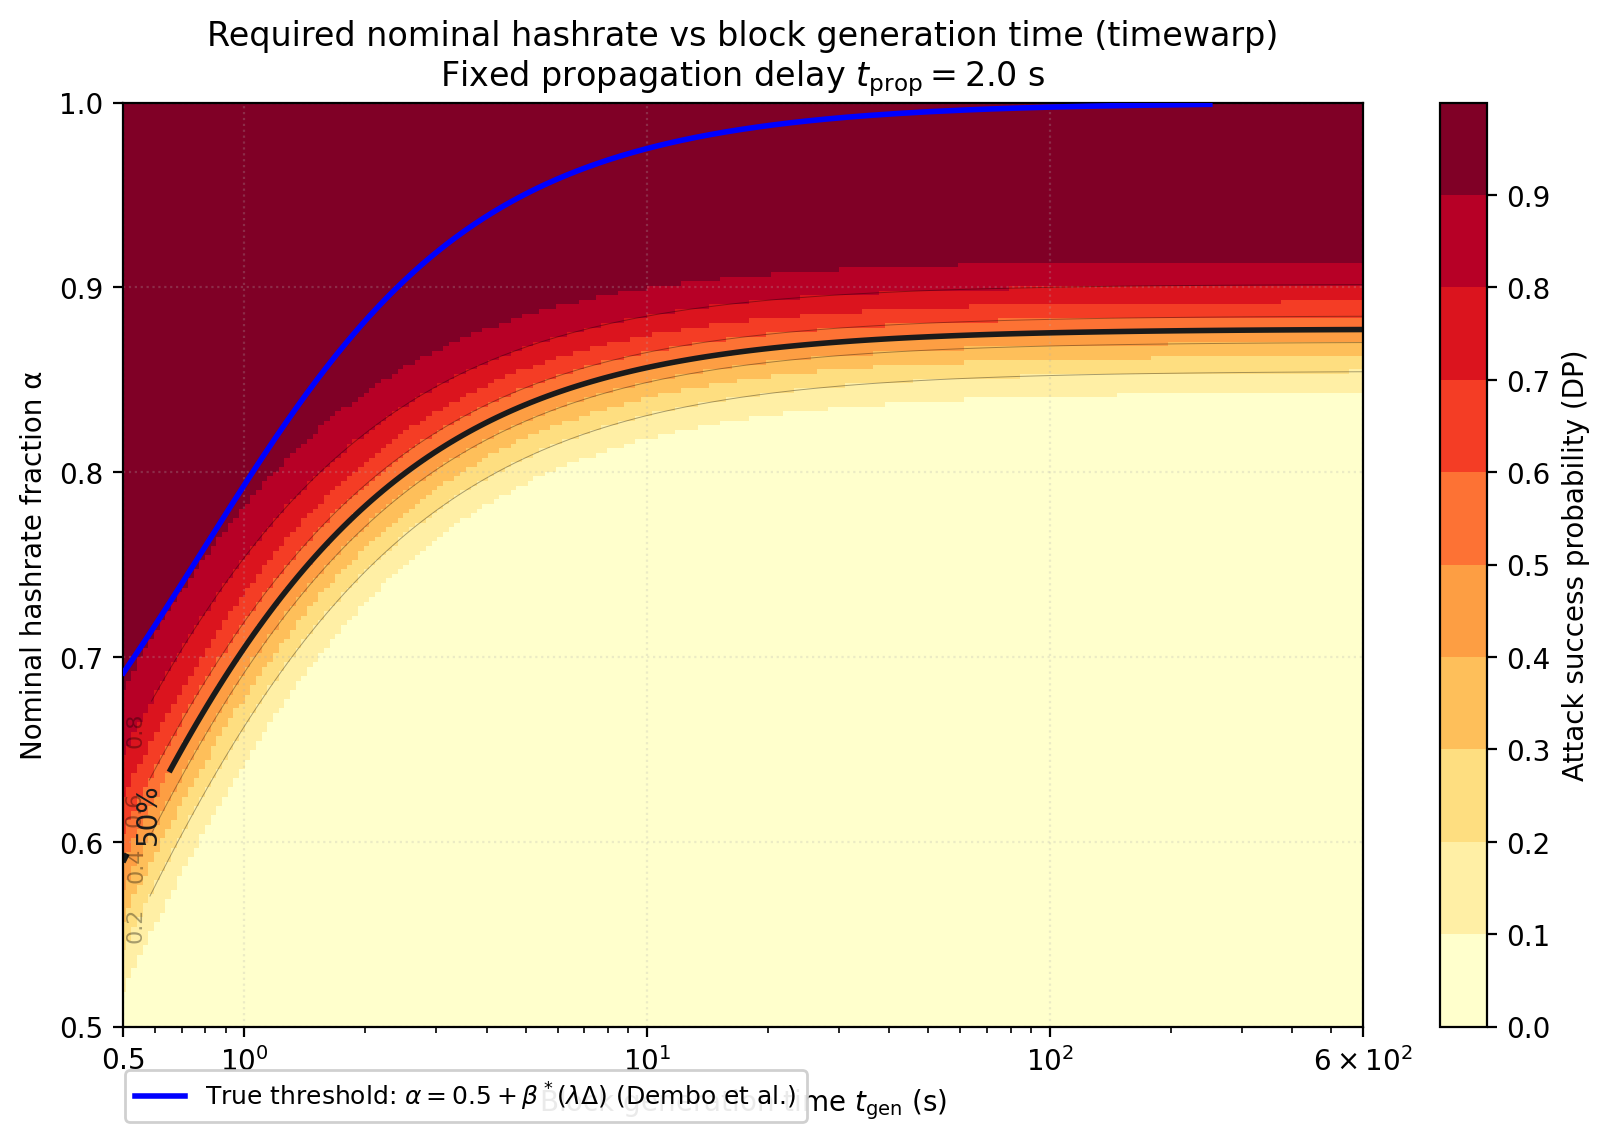
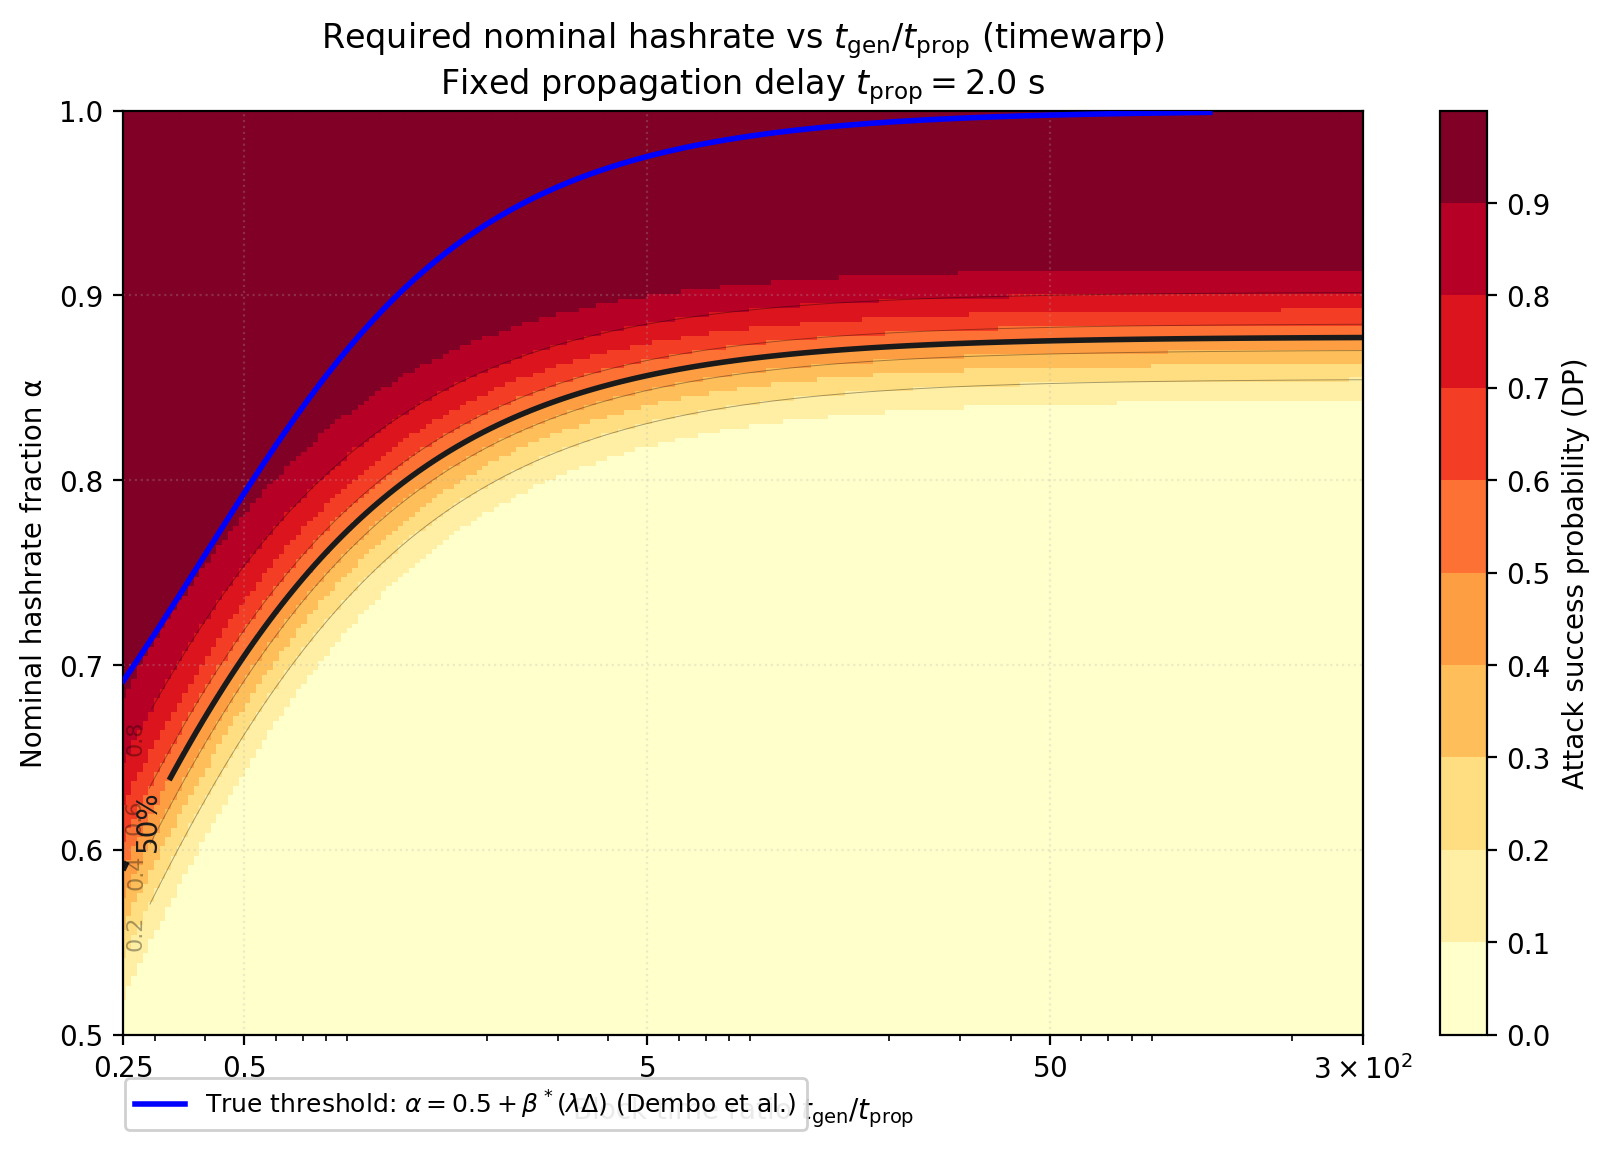
wip

diff --git a/experiments/timewarp_theory_analysis/scripts/plot_required_hashrate_sm.py b/experiments/timewarp_theory_analysis/scripts/plot_required_hashrate_sm.py
@@ -1,7 +1,10 @@
 """
-横軸: ブロック生成時間 t_gen（秒）
+横軸: ブロック生成時間と伝播遅延の比 t_gen / t_prop（無次元）
 縦軸: 変換前の名目ハッシュレート割合 α
-色: DP による攻撃成功率
+
+γ = 0, 0.5, 1 それぞれについて、DP モデルで攻撃成功率が 50% となる名目 α の曲線を描画する。
+ヒートマップ（plot_required_hashrate_heatmap_block_generation_time）と同様、名目 α をそのまま timewarp に入れた 50% 曲線も重ねる。
+理論の true threshold（Dembo et al.）も重ねる。
 
 名目 α から実効ハッシュレート割合へは γ を含む有理式で写像し、
 timewarp 補正ではその実効割合を用いる（縦軸は変換前の名目 α）。
@@ -18,7 +21,6 @@ from pathlib import Path
 
 import numpy as np
 import matplotlib.pyplot as plt
-from matplotlib.colors import BoundaryNorm
 
 # ==========================================
 # 1. 動的計画法 (DP) による攻撃成功率の計算
@@ -89,99 +91,158 @@ def effective_hashrate_fraction(alpha, gamma):
     return np.where(alpha > 0.5, 1.0, result)
 
 
+def attack_success_prob_nominal(alpha_nom, t_gen, gamma, t_prop, alphas_dp, probs_dp):
+    alpha_nom = float(alpha_nom)
+    alpha_eff_sm = float(effective_hashrate_fraction(np.array([alpha_nom]), gamma)[0])
+    ratio = t_prop / t_gen
+    p_orphan = ratio / (1.0 + ratio)
+    denom = alpha_eff_sm + (1.0 - alpha_eff_sm) * (1.0 - p_orphan)
+    if denom <= 0:
+        return 0.0
+    alpha_eff = alpha_eff_sm / denom
+    return float(np.interp(alpha_eff, alphas_dp, probs_dp, left=0.0, right=1.0))
+
+
+def attack_success_prob_heatmap_nominal(alpha_nom, t_gen, t_prop, alphas_dp, probs_dp):
+    """ヒートマップ script と同じ写像（名目 α を SM なしで timewarp に通す）。"""
+    alpha_nom = float(alpha_nom)
+    ratio = t_prop / t_gen
+    p_orphan = ratio / (1.0 + ratio)
+    denom = alpha_nom + (1.0 - alpha_nom) * (1.0 - p_orphan)
+    if denom <= 0:
+        return 0.0
+    alpha_eff = alpha_nom / denom
+    return float(np.interp(alpha_eff, alphas_dp, probs_dp, left=0.0, right=1.0))
+
+
+def nominal_alpha_for_target_prob(target, t_gen, gamma, t_prop, alphas_dp, probs_dp, n_iter=64):
+    lo, hi = 1e-12, 0.5
+
+    def p(a):
+        return attack_success_prob_nominal(a, t_gen, gamma, t_prop, alphas_dp, probs_dp)
+
+    p_lo, p_hi = p(lo), p(hi)
+    if p_hi < target:
+        return np.nan
+    if p_lo >= target:
+        return lo
+    for _ in range(n_iter):
+        mid = 0.5 * (lo + hi)
+        if p(mid) < target:
+            lo = mid
+        else:
+            hi = mid
+    return 0.5 * (lo + hi)
+
+
+def nominal_alpha_for_target_prob_heatmap(target, t_gen, t_prop, alphas_dp, probs_dp, n_iter=64):
+    """ヒートマップと同じモデルで target 成功率となる名目 α（探索域はヒートマップの縦軸に合わせ [0.5, 1]）。"""
+    lo, hi = 0.5, 1.0 - 1e-12
+
+    def p(a):
+        return attack_success_prob_heatmap_nominal(a, t_gen, t_prop, alphas_dp, probs_dp)
+
+    p_lo, p_hi = p(lo), p(hi)
+    if p_hi < target:
+        return np.nan
+    if p_lo >= target:
+        return lo
+    for _ in range(n_iter):
+        mid = 0.5 * (lo + hi)
+        if p(mid) < target:
+            lo = mid
+        else:
+            hi = mid
+    return 0.5 * (lo + hi)
+
+
 # ==========================================
-# 2. ヒートマップ（横軸 = ブロック生成時間）
+# 2. γ = 0, 0.5, 1 の 50% 曲線 + true threshold
 # ==========================================
-def plot_attack_success_heatmap_by_block_generation_time(
-    *, show_pow_threshold: bool = False, gamma: float = 0.5
-):
+def plot_required_nominal_hashrate_curves(*, show_pow_threshold: bool = True):
     T_PROP = 2.0
     t_gen_min = 0.5
     t_gen_max = 600
-    n_t_gen = 220
-    n_alpha = 200
+    n_t_gen = 400
+    gammas = (0.0, 0.5, 1.0)
 
     print("DPモデルの事前計算中（並列）...")
     alphas_dp, probs_dp = precompute_dp_table()
     print("完了。プロットを生成します。")
 
     t_gen_grid = np.geomspace(t_gen_min, t_gen_max, n_t_gen)
-    alpha_nom_grid = np.linspace(0.0, 1.0, n_alpha)
-    alpha_eff_sm = effective_hashrate_fraction(alpha_nom_grid, gamma)
-    Z = np.zeros((len(alpha_nom_grid), len(t_gen_grid)))
-
-    for j, t_gen in enumerate(t_gen_grid):
-        ratio = T_PROP / t_gen
-        P_orphan_n = ratio / (1.0 + ratio)
-        denom = alpha_eff_sm + (1.0 - alpha_eff_sm) * (1.0 - P_orphan_n)
-        alpha_eff = np.divide(
-            alpha_eff_sm,
-            denom,
-            out=np.zeros_like(alpha_eff_sm),
-            where=denom != 0,
-        )
-        Z[:, j] = np.interp(alpha_eff, alphas_dp, probs_dp, left=0.0, right=1.0)
-
-    X, Y = np.meshgrid(t_gen_grid, alpha_nom_grid)
+    x_ratio = t_gen_grid / T_PROP
 
     fig, ax = plt.subplots(figsize=(10, 6))
+    colors = ("#c0392b", "#2980b9", "#27ae60")
+    for gamma, color in zip(gammas, colors):
+        alphas_nom = np.array(
+            [
+                nominal_alpha_for_target_prob(0.5, tg, gamma, T_PROP, alphas_dp, probs_dp)
+                for tg in t_gen_grid
+            ]
+        )
+        mask = np.isfinite(alphas_nom)
+        ax.plot(
+            x_ratio[mask],
+            alphas_nom[mask],
+            color=color,
+            linewidth=2.0,
+            zorder=3,
+            label=rf"50% success timwarp+SM, $\gamma={gamma:g}$",
+        )
 
-    boundaries = [0.0, 0.1, 0.2, 0.3, 0.4, 0.5, 0.6, 0.7, 0.8, 0.9, 1.01]
-    cmap = plt.colormaps["YlOrRd"].copy()
-    cmap.set_bad(color="#cccccc")
-    norm = BoundaryNorm(boundaries, ncolors=cmap.N, clip=True)
-
-    pcm = ax.pcolormesh(X, Y, Z, shading="auto", cmap=cmap, norm=norm, zorder=1)
-    cbar = fig.colorbar(pcm, ax=ax, label="Attack success probability (DP)", ticks=np.arange(0.0, 1.0, 0.1))
-    cbar.ax.minorticks_off()
-
-    cs_fine = ax.contour(X, Y, Z, levels=[0.2, 0.4, 0.6, 0.8], colors="k", linewidths=0.35, alpha=0.35, zorder=2)
-    ax.clabel(cs_fine, inline=True, fontsize=8, fmt="%.1f")
-    cs50 = ax.contour(X, Y, Z, levels=[0.5], colors=["#1a1a1a"], linewidths=2.0, linestyles="-", zorder=2)
-    ax.clabel(cs50, inline=True, fontsize=10, fmt=lambda _lev: "50%")
+    alphas_heatmap = np.array(
+        [
+            nominal_alpha_for_target_prob_heatmap(0.5, tg, T_PROP, alphas_dp, probs_dp)
+            for tg in t_gen_grid
+        ]
+    )
+    mask_hm = np.isfinite(alphas_heatmap)
+    ax.plot(
+        x_ratio[mask_hm],
+        alphas_heatmap[mask_hm],
+        color="#1a1a1a",
+        linewidth=2.0,
+        linestyle="-",
+        zorder=3,
+        label=r"50% success (DP), timewarp without SM",
+    )
 
     if show_pow_threshold:
-        # Dembo et al. true threshold: 1/(λΔ) = β(1−β)/(1−2β); λΔ = t_prop / t_gen ⇒ t_gen = t_prop / (λΔ).
-        # 縦位置は主軸の α と同一スケール: y = 0.5 + β*（旧 twinx の 0–0.5 と幾何的に同じ）。
         betas_thr = np.linspace(0.001, 0.499, 1000)
         lambda_delta = (1.0 - 2.0 * betas_thr) / (betas_thr * (1.0 - betas_thr))
         inv_lambda_delta = 1.0 / lambda_delta
         t_gen_thr = T_PROP * inv_lambda_delta
+        x_thr = t_gen_thr / T_PROP
         thr_mask = np.isfinite(t_gen_thr) & (t_gen_thr >= t_gen_min) & (t_gen_thr <= t_gen_max)
         y_thr = 0.5 + betas_thr
         (line_thr,) = ax.plot(
-            t_gen_thr[thr_mask],
+            x_thr[thr_mask],
             y_thr[thr_mask],
-            color="blue",
-            linewidth=2,
-            zorder=5,
-            clip_on=True,
+            color="#6c3483",
+            linewidth=2.0,
+            linestyle="--",
+            zorder=4,
+            label=r"True threshold: $\alpha = 0.5+\beta^*(\lambda\Delta)$ (Dembo et al.)",
         )
 
     ax.set_title(
-        "Required nominal hashrate vs block generation time (timewarp)\n"
-        f"$\\gamma = {gamma}$, fixed propagation delay $t_{{\\mathrm{{prop}}}} = {T_PROP}$ s"
+        "Required nominal hashrate for 50% attack success vs $t_{\\mathrm{gen}}/t_{\\mathrm{prop}}$ (timewarp)\n"
+        rf"$\gamma \in \{{0,\,0.5,\,1\}}$, fixed propagation delay $t_{{\mathrm{{prop}}}} = {T_PROP}$ s"
     )
-    ax.set_xlabel("Block generation time $t_{\\mathrm{gen}}$ (s)")
+    ax.set_xlabel(r"Block time ratio $t_{\mathrm{gen}}/t_{\mathrm{prop}}$")
     ax.set_ylabel("Nominal hashrate fraction α (pre-mapping)")
-    ax.set_xlim(t_gen_min, t_gen_max)
+    ax.set_xlim(t_gen_min / T_PROP, t_gen_max / T_PROP)
     ax.set_xscale("log")
-    ax.set_xticks([0.5, 1.0, 10.0, 100.0, float(t_gen_max)])
+    _xt = np.array([0.5, 1.0, 10.0, 100.0, float(t_gen_max)]) / T_PROP
+    ax.set_xticks(_xt)
     ax.set_xticklabels(
-        [r"$0.5$", r"$10^{0}$", r"$10^{1}$", r"$10^{2}$", r"$6\times10^{2}$"]
+        [r"$0.25$", r"$0.5$", r"$5$", r"$50$", r"$3\times10^{2}$"]
     )
     ax.set_ylim(0.0, 1.0)
     ax.grid(True, linestyle=":", alpha=0.25, zorder=0)
-    if show_pow_threshold:
-        leg = fig.legend(
-            [line_thr],
-            [r"True threshold: $\alpha = 0.5+\beta^*(\lambda\Delta)$ (Dembo et al.)"],
-            loc="lower left",
-            bbox_to_anchor=(0.12, 0.02),
-            fontsize=9,
-            framealpha=0.92,
-        )
-        leg.set_zorder(10)
+    ax.legend(loc="lower right", fontsize=9, framealpha=0.92)
 
     out_path = (
         Path(__file__).resolve().parents[1]
@@ -196,20 +257,12 @@ def plot_attack_success_heatmap_by_block_generation_time(
 
 if __name__ == "__main__":
     parser = argparse.ArgumentParser(
-        description="DP timewarp attack success heatmap vs block generation time."
+        description="DP timewarp: 50% success nominal α vs t_gen/t_prop for γ=0,0.5,1 and true threshold."
     )
     parser.add_argument(
-        "--show-pow-threshold",
+        "--no-pow-threshold",
         action="store_true",
-        help="Overlay Dembo et al. true threshold as α = 0.5+β* on the same y-axis as the heatmap. Default: off.",
-    )
-    parser.add_argument(
-        "--gamma",
-        type=float,
-        default=0.5,
-        help="Parameter γ in the effective hashrate fraction mapping (default: 0.5).",
+        help="Do not overlay Dembo et al. true threshold.",
     )
     args = parser.parse_args()
-    plot_attack_success_heatmap_by_block_generation_time(
-        show_pow_threshold=args.show_pow_threshold, gamma=args.gamma
-    )
+    plot_required_nominal_hashrate_curves(show_pow_threshold=not args.no_pow_threshold)

diff --git a/experiments/timewarp_theory_analysis/scripts/plot_required_hashrate_heatmap_block_generation_time.py b/experiments/timewarp_theory_analysis/scripts/plot_required_hashrate_heatmap_block_generation_time.py
@@ -1,5 +1,5 @@
 """
-横軸: ブロック生成時間 t_gen（秒）
+横軸: ブロック生成時間と伝播遅延の比 t_gen / t_prop（無次元）
 縦軸: 名目ハッシュレート割合 α
 色: DP による攻撃成功率
 
@@ -73,7 +73,7 @@ def precompute_dp_table(max_workers=None):
 
 
 # ==========================================
-# 2. ヒートマップ（横軸 = ブロック生成時間）
+# 2. ヒートマップ（横軸 = t_gen / t_prop）
 # ==========================================
 def plot_attack_success_heatmap_by_block_generation_time(*, show_pow_threshold: bool = False):
     T_PROP = 2.0
@@ -102,7 +102,8 @@ def plot_attack_success_heatmap_by_block_generation_time(*, show_pow_threshold: 
         )
         Z[:, j] = np.interp(alpha_eff, alphas_dp, probs_dp, left=0.0, right=1.0)
 
-    X, Y = np.meshgrid(t_gen_grid, alpha_nom_grid)
+    x_ratio = t_gen_grid / T_PROP
+    X, Y = np.meshgrid(x_ratio, alpha_nom_grid)
 
     fig, ax = plt.subplots(figsize=(10, 6))
 
@@ -127,10 +128,11 @@ def plot_attack_success_heatmap_by_block_generation_time(*, show_pow_threshold: 
         lambda_delta = (1.0 - 2.0 * betas_thr) / (betas_thr * (1.0 - betas_thr))
         inv_lambda_delta = 1.0 / lambda_delta
         t_gen_thr = T_PROP * inv_lambda_delta
+        x_thr = t_gen_thr / T_PROP
         thr_mask = np.isfinite(t_gen_thr) & (t_gen_thr >= t_gen_min) & (t_gen_thr <= t_gen_max)
         y_thr = 0.5 + betas_thr
         (line_thr,) = ax.plot(
-            t_gen_thr[thr_mask],
+            x_thr[thr_mask],
             y_thr[thr_mask],
             color="blue",
             linewidth=2,
@@ -139,16 +141,17 @@ def plot_attack_success_heatmap_by_block_generation_time(*, show_pow_threshold: 
         )
 
     ax.set_title(
-        "Required nominal hashrate vs block generation time (timewarp)\n"
+        "Required nominal hashrate vs $t_{\\mathrm{gen}}/t_{\\mathrm{prop}}$ (timewarp)\n"
         f"Fixed propagation delay $t_{{\\mathrm{{prop}}}} = {T_PROP}$ s"
     )
-    ax.set_xlabel("Block generation time $t_{\\mathrm{gen}}$ (s)")
+    ax.set_xlabel(r"Block time ratio $t_{\mathrm{gen}}/t_{\mathrm{prop}}$")
     ax.set_ylabel("Nominal hashrate fraction α")
-    ax.set_xlim(t_gen_min, t_gen_max)
+    ax.set_xlim(t_gen_min / T_PROP, t_gen_max / T_PROP)
     ax.set_xscale("log")
-    ax.set_xticks([0.5, 1.0, 10.0, 100.0, float(t_gen_max)])
+    _xt = np.array([0.5, 1.0, 10.0, 100.0, float(t_gen_max)]) / T_PROP
+    ax.set_xticks(_xt)
     ax.set_xticklabels(
-        [r"$0.5$", r"$10^{0}$", r"$10^{1}$", r"$10^{2}$", r"$6\times10^{2}$"]
+        [r"$0.25$", r"$0.5$", r"$5$", r"$50$", r"$3\times10^{2}$"]
     )
     ax.set_ylim(0.5, 1.0)
     ax.grid(True, linestyle=":", alpha=0.25, zorder=0)
@@ -176,7 +179,7 @@ def plot_attack_success_heatmap_by_block_generation_time(*, show_pow_threshold: 
 
 if __name__ == "__main__":
     parser = argparse.ArgumentParser(
-        description="DP timewarp attack success heatmap vs block generation time."
+        description="DP timewarp attack success heatmap vs t_gen/t_prop."
     )
     parser.add_argument(
         "--show-pow-threshold",
